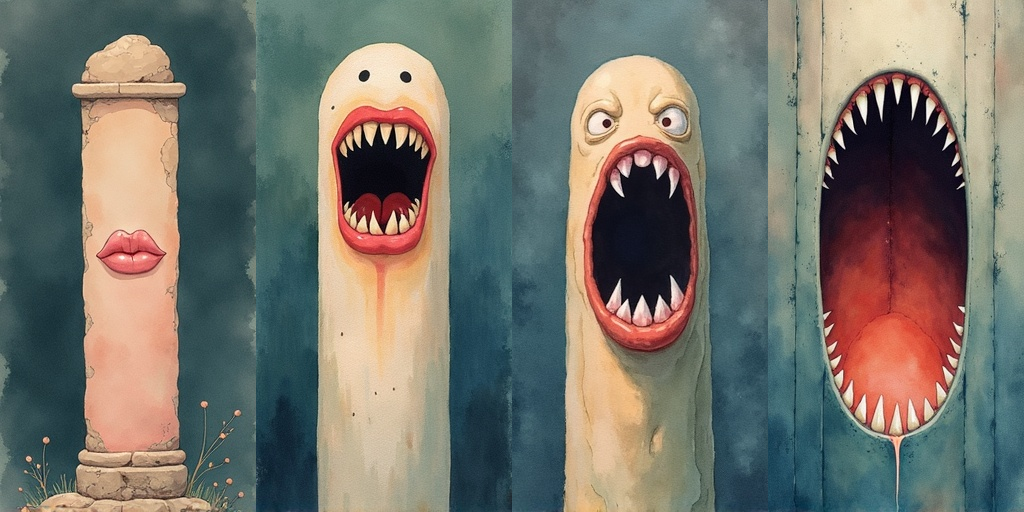
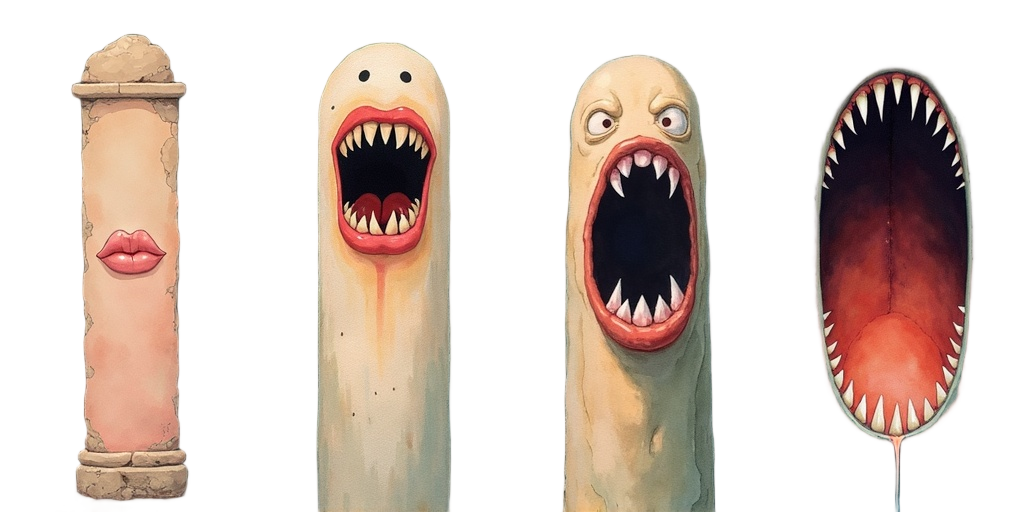
fix: v2.2.5 — Wave 21.2.3: Dutch strings retired + mouth-pillar alpha-cut
Self-UAT of v2.2.4 the-hollow room (screenshot 2026-05-05) surfaced three
final residuals from earlier waves:
- mouth-pillar-sheet.png: rendered as flat grey rectangle (Sprint 15C
  asset never had clean BiRefNet alpha). Re-cut via fal-ai/birefnet
  General-Use-Heavy → 470 KB clean alpha PNG.
- HintGlyph default 'veeg omhoog' → 'swipe up'.
- dailyStreak pill 'Dag X in de trip' → 'Day X in the trip'.

🤖 Generated with [Claude Code](https://claude.com/claude-code)

diff --git a/public/updates/index.html b/public/updates/index.html
@@ -206,6 +206,30 @@
     <article class="update" data-reveal>
       <div class="update__card">
         <div class="update__header">
+          <span class="update__version">v2.2.5</span>
+          <span class="update__date">2026-05-05</span>
+          <h2 class="update__title">05-05 — Wave 21.2.3: Dutch strings retired + mouth-pillar alpha-cut</h2>
+        </div>
+        <div class="update__body">
+          <div class="update__tags">
+          <span class="tag tag--fix">Fix</span>
+          </div>
+        <div class="update__lead">
+          <p class="update__lead-line">Self-UAT of v2.2.4 the-hollow room showed three remaining issues: mouth-pillar inhabitant rendered with a grey rectangle bg (Sprint 15C asset never had clean BiRefNet alpha), and two Dutch strings still appeared on screen — the HintGlyph &quot;veeg omhoog&quot; and the dailyStreak pill &quot;Dag X in de trip&quot;. <code>/play/</code> is English-canonical per the v2.2.1 chrome-strip; these were oversights.</p>
+        </div>
+        <h3>FIXED</h3>
+        <ul class="update__highlights">
+          <li><strong>mouth-pillar-sheet.png</strong> alpha-cut via fal-ai/birefnet (General Use Heavy, 1024×1024). 752 KB → 470 KB, clean transparency, four pillar-with-mouth frames now read against any bg without the grey halo.</li>
+          <li><strong>HintGlyph default text</strong>: <code>&#039;veeg omhoog&#039;</code> → <code>&#039;swipe up&#039;</code>. Same change at the CosmoScene callsite.</li>
+          <li><strong>dailyStreak pill</strong>: <code>Dag X in de trip</code> → <code>Day X in the trip</code> in <code>src/share/dailyStreak.ts</code>.</li>
+        </ul>
+        </div>
+      </div>
+    </article>
+
+    <article class="update" data-reveal>
+      <div class="update__card">
+        <div class="update__header">
           <span class="update__version">v2.2.4</span>
           <span class="update__date">2026-05-05</span>
           <h2 class="update__title">05-05 — Wave 21.2.2: dual-ParallaxScene removed + self-UAT pipeline</h2>

diff --git a/src/main.ts b/src/main.ts
@@ -43,7 +43,7 @@ import { BiomeManager } from './three/biomeManager';
 import { announceVisit } from './share/dailyStreak';
 import { SubstrateLoader } from './substrate/SubstrateLoader';
 
-const VERSION = '2.2.4';
+const VERSION = '2.2.5';
 
 /** Wave 21 — feature-flag for the substrate runtime. `?substrate=v2` boots
  *  the new Universe→Area→Room contract; absence keeps the legacy ParallaxScene-

diff --git a/src/phaser/entities/HintGlyph.ts b/src/phaser/entities/HintGlyph.ts
@@ -51,7 +51,7 @@ export class HintGlyph {
   private disposed = false;
   private text: string;
 
-  constructor(scene: Phaser.Scene, target: TargetProvider, text = 'veeg omhoog') {
+  constructor(scene: Phaser.Scene, target: TargetProvider, text = 'swipe up') {
     this.scene = scene;
     this.getTarget = target;
     this.text = text;

diff --git a/src/phaser/scenes/CosmoScene.ts b/src/phaser/scenes/CosmoScene.ts
@@ -344,7 +344,7 @@ export class CosmoScene extends Phaser.Scene {
       },
       showFirstHint: () => {
         if (!this.firstHint) {
-          this.firstHint = new HintGlyph(this, () => this.firstHintTarget(), 'veeg omhoog');
+          this.firstHint = new HintGlyph(this, () => this.firstHintTarget(), 'swipe up');
         }
         this.firstHint.show();
       },

diff --git a/src/share/dailyStreak.ts b/src/share/dailyStreak.ts
@@ -136,7 +136,7 @@ export function recordVisit(now: Date = new Date()): StreakState {
 export function announceVisit(): StreakState {
   const state = recordVisit();
   if (state.streak >= 1) {
-    showStreakPill(`Dag ${state.streak} in de trip`, 4000);
+    showStreakPill(`Day ${state.streak} in the trip`, 4000);
   }
   return state;
 }

diff --git a/CHANGELOG.md b/CHANGELOG.md
@@ -4,6 +4,15 @@ Alle wijzigingen volgen [Keep a Changelog](https://keepachangelog.com/en/1.1.0/)
 
 De `/updates/` pagina wordt automatisch uit dit bestand gegenereerd via `npm run updates:build`.
 
+## [2.2.5] — 2026-05-05 — Wave 21.2.3: Dutch strings retired + mouth-pillar alpha-cut
+
+Self-UAT of v2.2.4 the-hollow room showed three remaining issues: mouth-pillar inhabitant rendered with a grey rectangle bg (Sprint 15C asset never had clean BiRefNet alpha), and two Dutch strings still appeared on screen — the HintGlyph "veeg omhoog" and the dailyStreak pill "Dag X in de trip". `/play/` is English-canonical per the v2.2.1 chrome-strip; these were oversights.
+
+### Fixed
+- **mouth-pillar-sheet.png** alpha-cut via fal-ai/birefnet (General Use Heavy, 1024×1024). 752 KB → 470 KB, clean transparency, four pillar-with-mouth frames now read against any bg without the grey halo.
+- **HintGlyph default text**: `'veeg omhoog'` → `'swipe up'`. Same change at the CosmoScene callsite.
+- **dailyStreak pill**: `Dag X in de trip` → `Day X in the trip` in `src/share/dailyStreak.ts`.
+
 ## [2.2.4] — 2026-05-05 — Wave 21.2.2: dual-ParallaxScene removed + self-UAT pipeline
 
 Live UAT after v2.2.3 (this time done by me with Playwright, not surfaced to Richard) showed the substrate path STILL had rectangle artifacts even with per-room filter + renderOrder + alphaTest fixes applied. Diagnosis: `universes/forest/behavior.ts::background` constructed a *second* ParallaxScene against the same canvas main.ts already painted to. Two parallax instances rendering decoration spots over each other produced the visible rectangle stack.